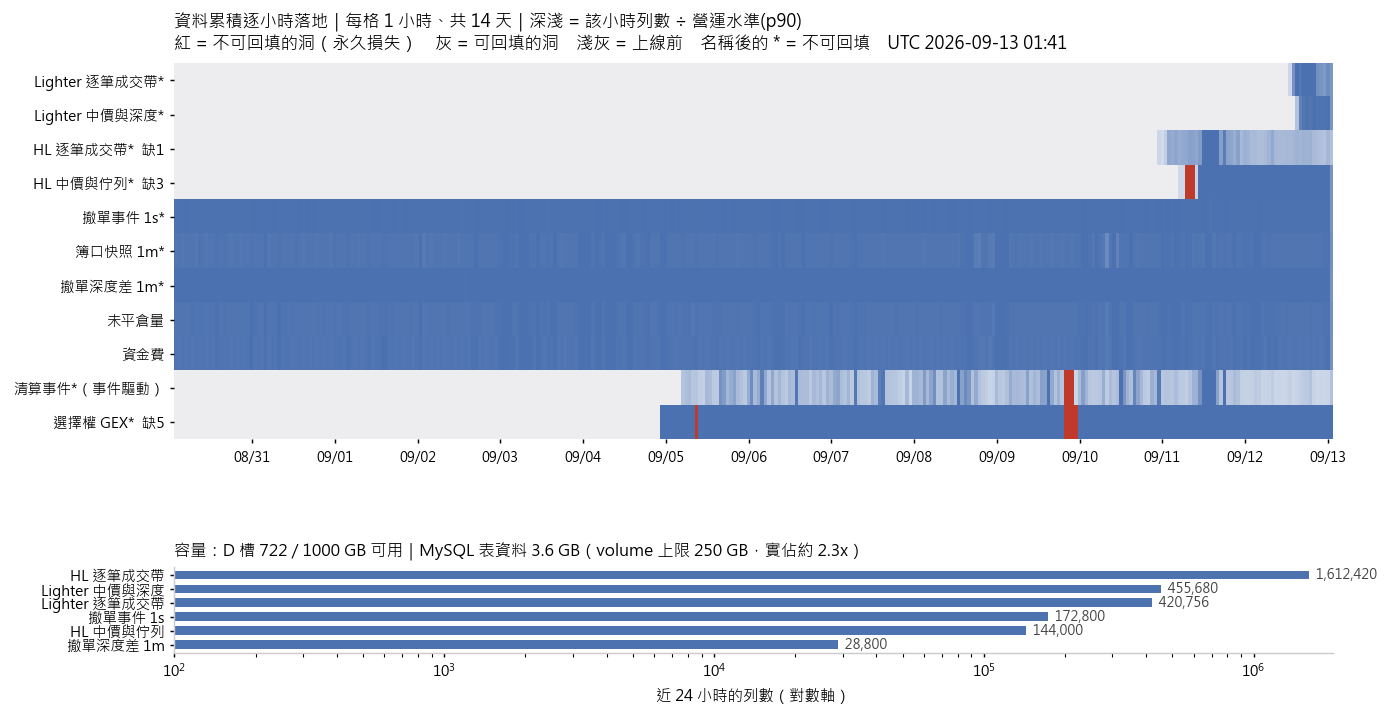
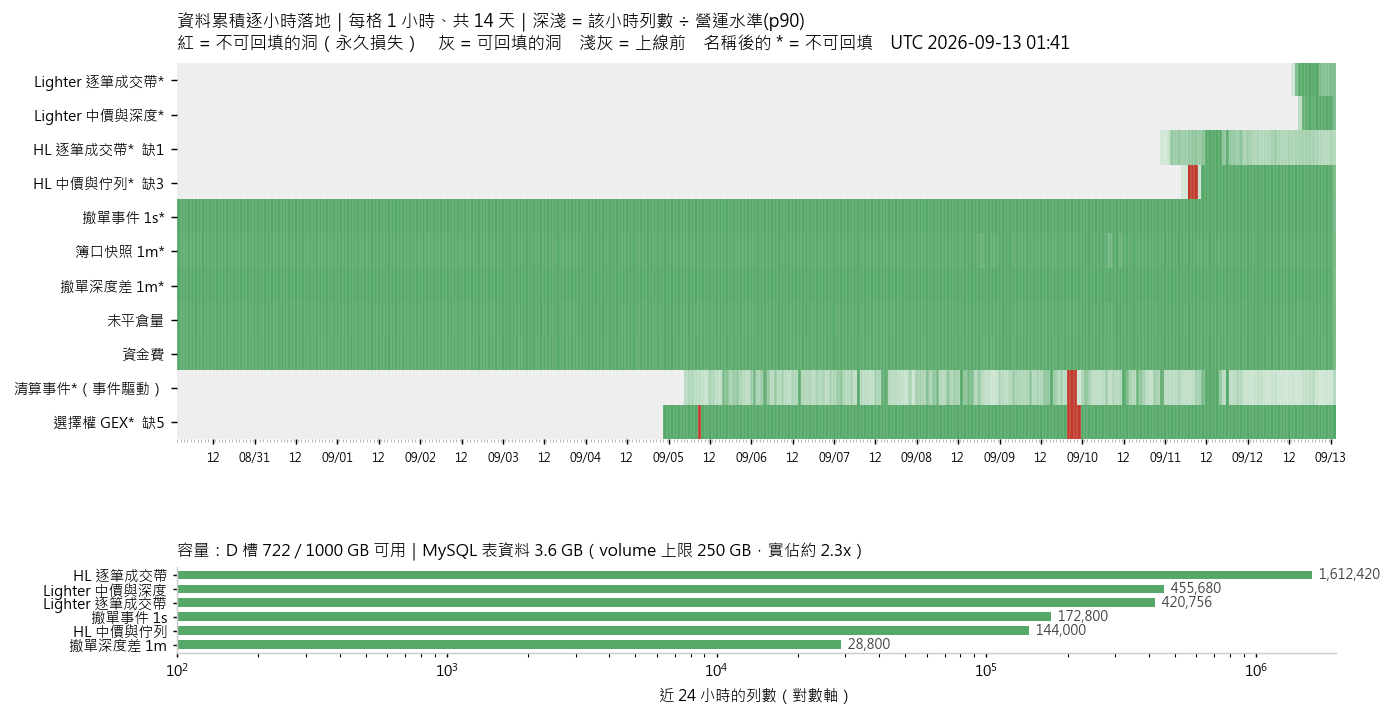
station(圖表): 綠色，時間軸每小時一格
使用者：「藍色換成綠色，然後下面時間列每一小時一格」。

色：#4c72b0 -> **#55a868**（seaborn deep 裡鋼藍的同族綠，白底對比夠、不是
螢光綠，維持 hft-alphas-pt-2 的單色標準）。熱力圖的色階與下方橫條一起換。

時間軸：**次刻度每 1 小時一根**（336 根），主刻度標 00（日期）與 12。
第一版把主刻度放每 6 小時、而且日界用兩行（日期 + 換行 + 00），結果相鄰
標籤直接黏成「1808/3106」—— 14 天 x 4 = 56 個標籤塞不進 11.5 吋。
看圖才發現，這種東西 py_compile 不會告訴你。

過程：patcher 的錨點含 "\n"，**今天第四次**被 heredoc 吃掉（這次讓
accum_png.py 語法壞在 mlab.append 那行）。mistake.md 寫的是「含反斜線的
內容寫成獨立 .py 檔再執行」，而我今天四次都是寫了 .py 卻又用 heredoc 產生
它 —— 那等於沒照做。改用檔案工具才成。

Claude-Session: https://claude.ai/code/session_01DZLK2aLuWTEzfGuC8QhBNX

diff --git a/research/ops/accum_png.py b/research/ops/accum_png.py
@@ -17,7 +17,7 @@
   * 深淺 = 該小時列數 ÷ 營運水準（p90），所以「量掉一半」看得出來，
     不是只有「完全沒有」才看得出來
 
-樣式照 `hft-alphas-pt-2` 的參照標準（純 matplotlib、單色鋼藍 #4c72b0、
+樣式照 `hft-alphas-pt-2` 的參照標準（純 matplotlib、單色 #55a868、
 標題寫明量的是什麼／期間／樣本），而不是塞滿顏色。
 """
 from __future__ import annotations
@@ -32,7 +32,7 @@ ROOT = os.path.dirname(os.path.dirname(HERE))
 SNAP = os.path.join(ROOT, "research", "results", "accum_snapshot.json")
 OUT = os.path.join(ROOT, "research", "results", "accum.png")
 
-BLUE = "#4c72b0"
+GREEN = "#55a868"       # 取代原本的鋼藍 #4c72b0（使用者 2026-09-13）
 RED = "#c0392b"
 GREY = "#8a93a3"
 
@@ -76,9 +76,9 @@ def render(snap, out=OUT):
                              else (0.75, 0.23, 0.17))     # 灰=可補 紅=永久
             else:
                 a = 0.25 + 0.75 * min(1.0, r[k] / lvl)
-                img[i, j] = (1 - a * (1 - 0x4c / 255),
-                             1 - a * (1 - 0x72 / 255),
-                             1 - a * (1 - 0xb0 / 255))
+                img[i, j] = (1 - a * (1 - 0x55 / 255),
+                             1 - a * (1 - 0xa8 / 255),
+                             1 - a * (1 - 0x68 / 255))
 
     fig, (ax, ax2) = plt.subplots(
         2, 1, figsize=(11.5, 1.05 + 0.34 * n + 1.1),
@@ -96,15 +96,27 @@ def render(snap, out=OUT):
         lab.append("%s%s%s" % (s["name"], tag, ev)
                    + ("  缺%d" % miss if miss else ""))
     ax.set_yticklabels(lab, fontsize=8)
-    # x 軸只標日期邊界
-    ticks, tl = [], []
+    # 時間軸：**每小時一格**（使用者 2026-09-13）。336 格全部標字沒有人讀得完，
+    # 所以分兩層 —— 次刻度每 1 小時一根（看得出格線、數得出第幾小時），
+    # 主刻度每 6 小時標 HH，日界另外標日期。
+    hticks = list(range(len(hours)))
+    ax.set_xticks([j - 0.5 for j in hticks], minor=True)
+    # 標籤只放 00 與 12。第一版每 6 小時一個、而且日界用兩行（日期\n00），
+    # 結果相鄰標籤直接黏成「1808/3106」—— 14 天 x 4 = 56 個標籤塞不進 11.5 吋。
+    major, mlab = [], []
     for j, k in enumerate(hours):
         if k[8:] == "00":
-            ticks.append(j)
-            tl.append("%s/%s" % (k[4:6], k[6:8]))
-    ax.set_xticks(ticks)
-    ax.set_xticklabels(tl, fontsize=7.5)
-    ax.tick_params(length=2)
+            major.append(j)
+            mlab.append("%s/%s" % (k[4:6], k[6:8]))
+        elif k[8:] == "12":
+            major.append(j)
+            mlab.append("12")
+    ax.set_xticks(major)
+    ax.set_xticklabels(mlab, fontsize=6.5)
+    ax.tick_params(axis="x", which="major", length=3)
+    ax.tick_params(axis="x", which="minor", length=1.5, color="#bbbbbb")
+    ax.grid(axis="x", which="minor", color="#ffffff", linewidth=0.25, alpha=0.5)
+    ax.set_axisbelow(False)
     for sp in ("top", "right", "left", "bottom"):
         ax.spines[sp].set_visible(False)
     ax.set_title(
@@ -119,7 +131,7 @@ def render(snap, out=OUT):
     vals = [s.get("rows_24h", 0) for s in sets]
     order = sorted(range(n), key=lambda i: -vals[i])[:6]
     ax2.barh([names[i] for i in order][::-1], [vals[i] for i in order][::-1],
-             color=BLUE, height=0.62)
+             color=GREEN, height=0.62)
     # 用 log 不用 symlog：全部 > 0，而 symlog 會多畫一段沒有意義的線性區，
     # 讓軸從 0 起跳、再跳到 10^0，讀起來像壞掉。
     ax2.set_xscale("log")
